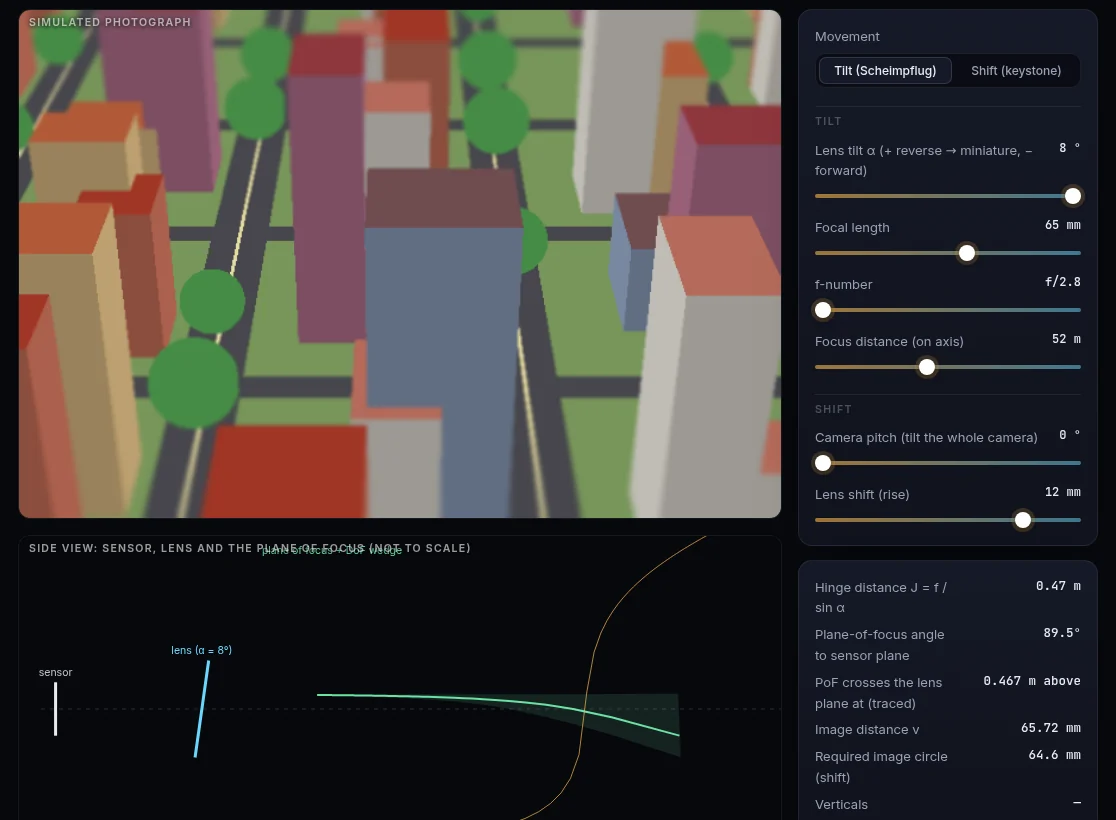
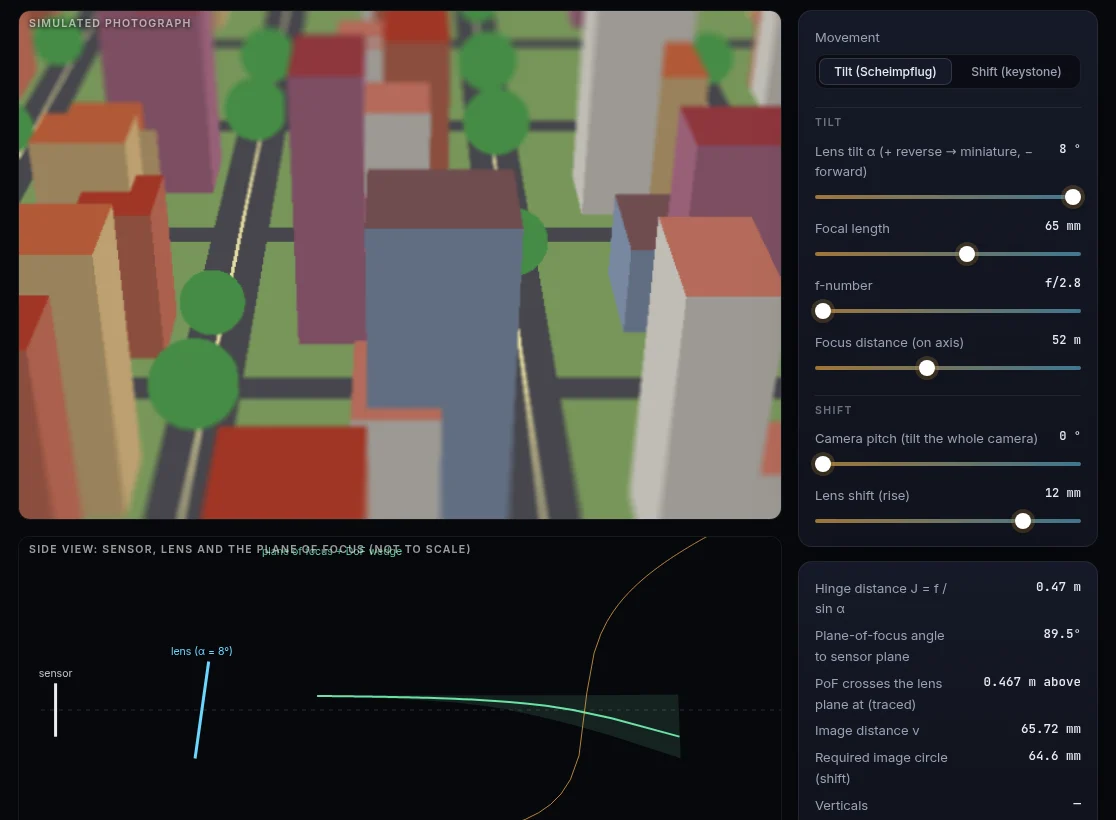
feat(blur): exact disk kernel for tilt-shift and depth of field (#24)
Add an anti-aliased uniform-disk (pillbox) blur built from per-row
prefix sums, normalised by the discrete kernel weight, with
premultiplied alpha and a downsampled path above r = 8 px. Tilt-shift
blends a stack of disk-blurred images instead of Gaussians at similar
cost; depth of field uses the exact disk for images up to 1.2 Mpx.

diff --git a/js/lib/blur.js b/js/lib/blur.js
@@ -61,6 +61,84 @@ export function gaussianBlurRGBA(data, w, h, sigma) {
   return out;
 }
 
+// ── Uniform-disk (pillbox) blur: the exact geometric defocus kernel ─────────────────────
+// Each output pixel sums, for every row dy of the disk, a horizontal span read from that row's
+// prefix sums. Pixel coverage of the span is clamp(a + ½ − |dx|, 0, 1) with a = √(r² − dy²),
+// so the disk edge is anti-aliased and the kernel is normalised by its discrete weight.
+// Cost O(2r + 1) per pixel and plane; edges are clamped like the box passes above.
+export function diskBlurPlane(plane, w, h, r) {
+  if (r < 0.5) return plane;
+  const R = Math.ceil(r), rows = [];
+  let wsum = 0;
+  for (let dy = -R; dy <= R; dy++) {
+    const A = Math.sqrt(Math.max(0, r * r - dy * dy)) + 0.5, n = Math.floor(A) - 1, f = A - Math.floor(A);
+    if (A <= 0.5 && dy) continue;
+    rows.push([dy, n, f]);
+    wsum += n >= 0 ? 2 * n + 1 + 2 * f : A;
+  }
+  // prefix sums of every clamped row, computed once: P[y][i + 1] = Σ row[clamp(x' − R − 1)], x' ≤ i
+  const L = w + 2 * R + 3, P = new Float64Array(h * L), out = new Float32Array(w * h), pw = 1 / wsum;
+  for (let y = 0; y < h; y++) {
+    let acc = 0;
+    for (let i = 0; i < L - 1; i++) { acc += plane[y * w + Math.min(w - 1, Math.max(0, i - R - 1))]; P[y * L + i + 1] = acc; }
+  }
+  for (let y = 0; y < h; y++) {
+    const o = y * w;
+    for (const [dy, n, f] of rows) {
+      const sy = Math.min(h - 1, Math.max(0, y + dy)), src = sy * w, pr = sy * L + R + 1; // pr + x: column x
+      if (n < 0) { for (let x = 0; x < w; x++) out[o + x] += f * plane[src + x]; continue; }
+      for (let x = 0; x < w; x++) {
+        let v = P[pr + x + n + 1] - P[pr + x - n];
+        if (f) v += f * (plane[src + Math.min(w - 1, x + n + 1)] + plane[src + Math.max(0, x - n - 1)]);
+        out[o + x] += v;
+      }
+    }
+  }
+  for (let i = 0; i < w * h; i++) plane[i] = out[i] * pw;
+  return plane;
+}
+
+// Disk-blur RGBA bytes with premultiplied alpha; returns a new Uint8ClampedArray.
+export function diskBlurRGBA(data, w, h, r) {
+  const n = w * h, out = new Uint8ClampedArray(data.length);
+  if (r < 0.5) { out.set(data); return out; }
+  const A = new Float32Array(n), C = [0, 1, 2].map(() => new Float32Array(n));
+  for (let i = 0; i < n; i++) {
+    const a = data[i * 4 + 3] / 255; A[i] = a;
+    for (let c = 0; c < 3; c++) C[c][i] = data[i * 4 + c] * a;
+  }
+  [A, ...C].forEach((p) => diskBlur(p, w, h, r));
+  for (let i = 0; i < n; i++) {
+    const a = A[i];
+    for (let c = 0; c < 3; c++) out[i * 4 + c] = a > 1e-6 ? C[c][i] / a : 0;
+    out[i * 4 + 3] = a * 255;
+  }
+  return out;
+}
+
+// Disk blur of a float plane in place. Large radii: blur a k×-downsampled copy (box average) with radius r/k and upsample bilinearly,
+// k = ⌊r/4⌋. This keeps the cost near that of r ≈ 4 and adds a blur of about k px, ≤ r/4, to
+// the disk edge (≈ 3 % in RMS radius).
+export function diskBlur(plane, w, h, r) {
+  const k = Math.floor(r / 4);
+  if (k < 2) return diskBlurPlane(plane, w, h, r);
+  const sw = Math.ceil(w / k), sh = Math.ceil(h / k), small = new Float32Array(sw * sh);
+  for (let y = 0; y < sh; y++) for (let x = 0; x < sw; x++) {
+    let acc = 0, cnt = 0;
+    for (let yy = y * k; yy < Math.min(h, y * k + k); yy++) for (let xx = x * k; xx < Math.min(w, x * k + k); xx++) { acc += plane[yy * w + xx]; cnt++; }
+    small[y * sw + x] = acc / cnt;
+  }
+  diskBlurPlane(small, sw, sh, r / k);
+  for (let y = 0; y < h; y++) {
+    const fy = Math.min(sh - 1, Math.max(0, (y + 0.5) / k - 0.5)), y0 = Math.floor(fy), y1 = Math.min(sh - 1, y0 + 1), ty = fy - y0;
+    for (let x = 0; x < w; x++) {
+      const fx = Math.min(sw - 1, Math.max(0, (x + 0.5) / k - 0.5)), x0 = Math.floor(fx), x1 = Math.min(sw - 1, x0 + 1), tx = fx - x0;
+      plane[y * w + x] = (small[y0 * sw + x0] * (1 - tx) + small[y0 * sw + x1] * tx) * (1 - ty) + (small[y1 * sw + x0] * (1 - tx) + small[y1 * sw + x1] * tx) * ty;
+    }
+  }
+  return plane;
+}
+
 // Blur a canvas/image into a new canvas padded by ~3σ so the blur is not clipped.
 export function blurredCanvas(src, sigma) {
   const pad = Math.ceil(3 * sigma);
@@ -71,6 +149,21 @@ export function blurredCanvas(src, sigma) {
   if (sigma >= 0.3) {
     const im = g.getImageData(0, 0, c.width, c.height);
     im.data.set(gaussianBlurRGBA(im.data, c.width, c.height, sigma));
+    g.putImageData(im, 0, 0);
+  }
+  return { canvas: c, pad };
+}
+
+// Disk-blur a canvas/image into a new canvas padded by r + 2 px so the blur is not clipped.
+export function diskBlurredCanvas(src, r) {
+  const pad = Math.ceil(r) + 2;
+  const c = document.createElement('canvas');
+  c.width = src.width + 2 * pad; c.height = src.height + 2 * pad;
+  const g = c.getContext('2d');
+  g.drawImage(src, pad, pad);
+  if (r >= 0.5) {
+    const im = g.getImageData(0, 0, c.width, c.height);
+    im.data.set(diskBlurRGBA(im.data, c.width, c.height, r));
     g.putImageData(im, 0, 0);
   }
   return { canvas: c, pad };

diff --git a/js/modules/tiltshift.js b/js/modules/tiltshift.js
@@ -1,7 +1,7 @@
 import { h, controls, stage, readouts, imageCanvas, texNum } from '../lib/ui.js';
 import { header, lab, theory, references, liveCalc } from '../lib/page.js';
 import { tiltedLens, tiltedImage, tiltedObject } from '../lib/optics.js';
-import { gaussianBlurRGBA } from '../lib/blur.js';
+import { diskBlurRGBA } from '../lib/blur.js';
 
 // ── toy town: houses (boxes) and trees (spheres) bucketed in a 12 m cell grid ──────────
 const CELL = 12, GX0 = -5, GX1 = 5, GZ0 = 0, GZ1 = 14;
@@ -120,13 +120,14 @@ export default function mount(root, meta) {
       blur[k] = Math.min(24, px);
       if (px < minB) minB = px;
     }
-    // blur stack (Gaussian σ ≈ r/2 approximates the uniform disk's second moment), per-pixel blend
+    // blur stack of exact uniform-disk (pillbox) kernels, blended per pixel between the two
+    // levels that bracket its defocus radius
     const levels = [0, 0.7, 1.5, 2.5, 3.8, 5.5, 8, 11, 15, 19, 24];
     const src = imageCanvas(W, H);
     for (let k = 0; k < W * H; k++) { src.data[k * 4] = base[k * 3]; src.data[k * 4 + 1] = base[k * 3 + 1]; src.data[k * 4 + 2] = base[k * 3 + 2]; src.data[k * 4 + 3] = 255; }
     src.put();
     const srcData = src.cx.getImageData(0, 0, W, H).data;
-    const stack = levels.map((r) => gaussianBlurRGBA(srcData, W, H, r / 2));
+    const stack = levels.map((r) => diskBlurRGBA(srcData, W, H, r));
     const out = imageCanvas(W, H);
     for (let k = 0; k < W * H; k++) {
       const b = blur[k]; let li = 0; while (li < levels.length - 2 && levels[li + 1] < b) li++;
@@ -255,7 +256,7 @@ export default function mount(root, meta) {
 <p>from the lens. Refocusing rotates the plane of focus about this hinge, and changing the tilt moves the hinge. Landscape photographers tilt forward so the plane of focus lies along the ground from the near flowers to the horizon, even at f/8.</p>
 </div><div>
 <h3>The DoF wedge</h3>
-<p>The near and far depth-of-field limits are the conjugates of planes parallel to the sensor at \(\pm Nc\). They too pass through the hinge line, so depth of field becomes a wedge opening away from the camera, drawn shaded green in the side view. Reverse tilt sets the plane of focus nearly perpendicular to the ground. Only a narrow band of a receding scene stays sharp. Because we associate such shallow depth of field with close-up photographs of small objects, the brain reads the scene as a <em>miniature</em>. The render computes each pixel's true defocus through the tilted lens, then blends a stack of blurred images.</p>
+<p>The near and far depth-of-field limits are the conjugates of planes parallel to the sensor at \(\pm Nc\). They too pass through the hinge line, so depth of field becomes a wedge opening away from the camera, drawn shaded green in the side view. Reverse tilt sets the plane of focus nearly perpendicular to the ground. Only a narrow band of a receding scene stays sharp. Because we associate such shallow depth of field with close-up photographs of small objects, the brain reads the scene as a <em>miniature</em>. The render computes each pixel's true defocus through the tilted lens, then blends a stack of images blurred with exact uniform-disk (pillbox) kernels, the geometric defocus PSF.</p>
 <h3>Shift and keystoning</h3>
 <p>Pointing a camera upward tilts the sensor relative to a building façade. Its verticals then converge to a vanishing point, the keystone effect. Keeping the camera level keeps the sensor parallel to the façade, so verticals stay parallel. A <strong>shift</strong> lens then slides the sensor window up inside a larger image circle (around 60–80 mm for full-frame shift lenses) to include the top of the building. Raising the shift slider here at zero pitch frames the façade without any convergence. Architectural photography, and every view camera since the 19th century, depends on this.</p>
 </div></div>`));

diff --git a/js/modules/dof.js b/js/modules/dof.js
@@ -4,7 +4,7 @@ import { SENSORS, diag, pitchUm } from '../lib/sensors.js';
 import { besselJ1 } from '../lib/pupil.js';
 import { plot, logRange } from '../lib/plot.js';
 import { blurDiameter as blur, hyperfocal, dofLimits } from '../lib/optics.js';
-import { blurredCanvas } from '../lib/blur.js';
+import { blurredCanvas, diskBlurredCanvas } from '../lib/blur.js';
 
 const LAMBDA = 0.00055; // mm
 const CARDS = [0.7, 1, 1.5, 2.2, 3.3, 5, 8, 12, 20, 35];
@@ -13,11 +13,18 @@ const cardAngle = (i) => (-9 + (i * 14) / (CARDS.length - 1)) * Math.PI / 180;
 
 const diskMTF = (x) => (Math.abs(x) < 1e-6 ? 1 : (2 * besselJ1(Math.PI * x)) / (Math.PI * x));
 
-// Draw `img` convolved with a uniform disk of radius r (px): Vogel-spiral taps accumulated on
-// an additive scratch layer (an exact average), softened by a small Gaussian between taps.
-// Blurring commutes with shifting and summing, so the source is blurred once up front.
+// Draw `img` convolved with a uniform disk of radius r (px). Up to ~1.2 Mpx (padded) the exact,
+// anti-aliased pillbox of js/lib/blur.js is used. Larger images (very near cards at long focal
+// lengths) fall back to Vogel-spiral taps accumulated on an additive scratch layer, softened by a
+// small Gaussian between taps; blurring commutes with shifting and summing, so the source is
+// blurred once up front.
 function diskBlit(ctx, img, x, y, r) {
   if (r < 0.6) { ctx.drawImage(img, x, y); return; }
+  if ((img.width + 2 * r) * (img.height + 2 * r) <= 1.2e6) {
+    const { canvas, pad } = diskBlurredCanvas(img, r);
+    ctx.drawImage(canvas, x - pad, y - pad);
+    return;
+  }
   const n = Math.min(72, Math.max(10, Math.round(r * 2.2)));
   const soft = Math.max(0, (r / Math.sqrt(n)) * 0.9);
   const { canvas: src, pad: sp } = blurredCanvas(img, soft > 0.4 ? soft : 0);
@@ -287,7 +294,7 @@ c(d) &= \frac{f}{N}\cdot\frac{f\,|d-s|}{d\,(s-f)}
 \[\nu_x = \frac{f}{ZP},\qquad \nu_y = \frac{f h_c}{Z^2 P}.\]
 <p>The pattern's contrast is multiplied by the exact optical transfer function of a uniform defocus disk of diameter \(c(Z)\), and by the diffraction MTF when that is enabled:</p>
 \[\mathrm{MTF}_\text{defocus}(\nu) = \frac{2J_1(\pi c\nu)}{\pi c\nu}.\]
-<p>This function goes <em>negative</em>, which is spurious resolution: contrast reversal in strongly defocused stripes. You can see it on the ground as rows of "phantom" tiles in counter-phase. The upright cards and the distant scenery are convolved with a uniform-disk kernel by stochastic Vogel-spiral sampling, so their blur is a true bokeh disk rather than a Gaussian.</p>
+<p>This function goes <em>negative</em>, which is spurious resolution: contrast reversal in strongly defocused stripes. You can see it on the ground as rows of "phantom" tiles in counter-phase. The upright cards and the distant scenery are convolved with an exact, anti-aliased uniform-disk (pillbox) kernel, so their blur is a true bokeh disk rather than a Gaussian.</p>
 <h3>Diffraction sets a floor</h3>
 <p>The Airy pattern has first-zero diameter \(2.44\lambda N_w\), with working f-number \(N_w = N(1+m)\). At f/16 that is 21 µm, close to the full-frame CoC. Stopping down therefore stops increasing perceived sharpness. Adding the two blurs in quadrature, as the dashed curve does, is a common heuristic. The rigorous approach is to multiply MTFs (see <a href="#/mtf">MTF</a>).</p>
 <div class="callout">Equivalence: keep the framing and change format, scaling \(f\) by the crop factor \(k\). Then \(c\) scales by \(1/k\), and the depth of field is the same only if \(N\) also scales by \(k\). That is why a phone at f/1.8 renders like a full-frame camera at about f/12 (see <a href="#/sensor">Sensor size</a>).</div>

diff --git a/ROADMAP.md b/ROADMAP.md
@@ -67,7 +67,7 @@ flowchart LR
 | Laboratories | 20 | +19 proposed (v1.5, v1.6) |
 | Catalogue entries | 148 | link every new lab; add polarisation and colour-science entries |
 | Lens prescriptions | 5 | 10+ with aspheres and file import |
-| Automated tests | 41 tests (physics, blur, lens I/O, ghosts, bokeh) + link check + browser smoke test in CI | more coverage per new lab |
+| Automated tests | 43 tests (physics, blur, lens I/O, ghosts, bokeh) + link check + browser smoke test in CI | more coverage per new lab |
 | Deployment | GitHub Pages, deployed from `main` by CI | (none) |
 
 ---
@@ -178,7 +178,7 @@ An audit of v1.0.1 (code, performance, layout, accessibility and browser compati
 | A6 | Canvases have no text alternative; almost no ARIA | one `aria-` attribute in the codebase | Screen-reader users get no results | v1.1 |
 | A7 | No shareable state | no URL parameters | Teachers can't link to a specific configuration | v1.1 |
 | A8 | No licence | README states all rights reserved | Blocks contributions and reuse | v1.1 (owner decision) |
-| A9 | Known model simplifications (see README) | ~~paraxial ghosts~~ (real rays since v1.5), ~~phenomenological bokeh~~ (traced since v1.5), Gaussian blur stack, circular off-axis pupil | Accuracy ceiling for advanced users | v1.3–v1.4 |
+| A9 | Known model simplifications (see README) | ~~paraxial ghosts~~ (real rays since v1.5), ~~phenomenological bokeh~~ (traced since v1.5), ~~Gaussian blur stack~~ (disk kernels since v1.5), circular off-axis pupil | Accuracy ceiling for advanced users | v1.3–v1.4 |
 | A10 | Spherical surfaces only; prescriptions are hard-coded | `raytrace.js` | Can't model modern aspheric lenses or user lenses | v1.3 |
 
 ---
@@ -241,7 +241,7 @@ An audit of v1.0.1 (code, performance, layout, accessibility and browser compati
 - [x] **P1 · L** **Real-ray ghost tracing** for flare: sample pupil rays through each two-reflection path, giving aberrated, vignetted ghosts (Hullin 2011 full method). *Includes angle-dependent coating reflectance, TIR, per-pixel aperture gauge and path culling; runs in the worker with draft and refined passes.*
 - [x] **P2 · L** **Bokeh from the traced lens**: defocus kernels built from real rays of the chosen prescription, including LoCA rims (magenta and green) and field-dependent cat's eyes. *Default bokeh model; 18 kernels in the worker; validated for size, flux, SA and colour order.*
 - [ ] **P2 · M** **Diffraction-aware bokeh**: Fresnel edge ripples for small disks via the defocused-PSF FFT path.
-- [ ] **P2 · M** Exact disk kernel in tilt-shift and DoF (shares the v1.1 blur code).
+- [x] **P2 · M** Exact disk kernel in tilt-shift and DoF (shares the v1.1 blur code). *Anti-aliased pillbox from per-row prefix sums, downsampled above r = 8 px; Vogel taps remain only for very large near cards in DoF.*
 - [ ] **P3 · L** **Spectral scene renderer**: render a whole scene per wavelength through the PSF, the colour-matching functions and the sensor's spectral response.
 - [x] **P3 · M** Polychromatic ghosts with dispersion inside the paraxial and real-ray models. *Both models trace each of the 8 wavelengths with its own indices and coating reflectance.*
 - [ ] **P3 · M** Smooth ghost irradiance: interpolate per-vertex irradiance across the triangles (Hullin's vertex averaging) to remove the < 1 % per-cell steps, and add Fresnel ringing at ghost edges.

diff --git a/README.md b/README.md
@@ -464,7 +464,7 @@ Optica_Viva/
 │   ├── app.js                 Laboratory registry, hash router, navigation
 │   ├── lib/                   Numerical core (pure functions, no DOM unless noted)
 │   │   ├── fft.js             Radix-2 complex FFT, 2-D FFT, fftshift
-│   │   ├── blur.js            Safari-safe Gaussian blur (3 box passes, premultiplied alpha)
+│   │   ├── blur.js            Safari-safe blurs: Gaussian (3 box passes) and exact disk (pillbox), premultiplied alpha
 │   │   ├── optics.js          DoF, tilted-lens (Scheimpflug) and ΛCDM formulas
 │   │   ├── tasks.js           Heavy pure computations (PSF, Zernike, OTF) for the worker
 │   │   ├── compute.js         Worker API: run(task) and latest-only channels, main-thread fallback
@@ -542,7 +542,7 @@ Every page states its model's assumptions. The main simplifications are:
 | Ray tracer (PSF) | Off-axis pupil treated as circular in normalised stop coordinates | Ignores the ≈ cos θ pupil anamorphosis |
 | Flare | Real-ray ghosts at 8 wavelengths on a 33 × 33 ray grid; diffraction at the iris only in the source's starburst | Ghost edges are geometric (no Fresnel ringing); ghosts below 10⁻⁶ of the source irradiance are skipped |
 | Bokeh | Geometric optics: traced kernels (or a phenomenological pupil model) | No Fresnel edge ringing; disks drawn on a 3 × 3 grid of field positions |
-| Depth of field, tilt-shift | Thin-lens model; Gaussian blur stack for tilt-shift | Blur magnitudes exact, kernel shape approximate in tilt-shift |
+| Depth of field, tilt-shift | Thin-lens model; exact disk kernels, blended between 11 radii in tilt-shift | Blur radius interpolated between stack levels in tilt-shift; disks above r = 8 px blurred at reduced resolution (edge softer by ≤ r/4 px) |
 | Noise | Representative sensor constants (1800 e⁻/µm², QE 0.5) | Trends exact; absolute values illustrative |
 | Seeing | Single frozen-flow layer; screens periodic over 8D | One seam per 8D of travel |
 | Coronagraph | Monochromatic, idealised hard-edged masks | Classic Lyot contrast (~10⁻⁶) rather than state-of-the-art designs |
@@ -554,7 +554,7 @@ Every page states its model's assumptions. The main simplifications are:
 | | Chrome / Edge | Firefox | Safari |
 |---|---|---|---|
 | All laboratories | ✅ | ✅ | ✅ |
-| Blur in DoF and tilt-shift (in-house Gaussian, no `ctx.filter`) | ✅ | ✅ | ✅ |
+| Blur in DoF and tilt-shift (in-house disk kernel, no `ctx.filter`) | ✅ | ✅ | ✅ |
 
 The heavier pages run 256²–512² FFTs or ray-cast hundreds of thousands of rays per update: seeing (animated), coronagraph, tilt-shift, PSF and projection. They are fluid on a modern desktop and noticeably slower on low-power devices such as a Raspberry Pi. Computations are debounced while you drag sliders.
 

diff --git a/CHANGELOG.md b/CHANGELOG.md
@@ -7,6 +7,7 @@ The format follows [Keep a Changelog](https://keepachangelog.com/en/1.1.0/), and
 ## [Unreleased]
 
 ### Added
+- **Exact disk (pillbox) blur** in `js/lib/blur.js`: per-row prefix sums with anti-aliased span ends, normalised by the discrete kernel weight, premultiplied alpha, and a downsampled path above r = 8 px that keeps the cost near r ≈ 4. Tilt-shift now blends a stack of disk-blurred images instead of Gaussians (similar speed), and depth of field uses the exact disk for every image up to 1.2 Mpx. Tests: unit sum, plateau 1/(πr²), RMS radius r/√2 within 2.5 % on both paths; a uniform image is unchanged.
 - **Bokeh from the traced lens** (`js/lib/bokeh.js`), now the default model of the bokeh lab. Defocused point images are traced through any library prescription at 8 wavelengths: background lights at infinity, foreground lights at half the focus distance, and the sensor at the real-ray image of the focus distance. They use the flux-conserving triangle rasteriser, generalised to the direct path, point sources, fitted windows and rounded blades. The lens's own spherical aberration, secondary-spectrum fringes (magenta foreground, green background), cat's eyes from the clear apertures (new barrel slider) and coma emerge without parameters. Disks are drawn at physical size on a 36 mm sensor. The 18 kernels are computed in the worker. The phenomenological model remains as a second mode.
 - Tests (`test/bokeh.test.mjs`): a stopped-down disk matches the paraxial diameter within 1 % and conserves the pupil flux within 0.5 %; under-correction gives a soft background and a bright-rimmed foreground; the colour order of the rims matches longitudinal colour (singlet) and the secondary spectrum (achromat).
 - `controls()` options accept `when(state)` to show a control only for some settings.
